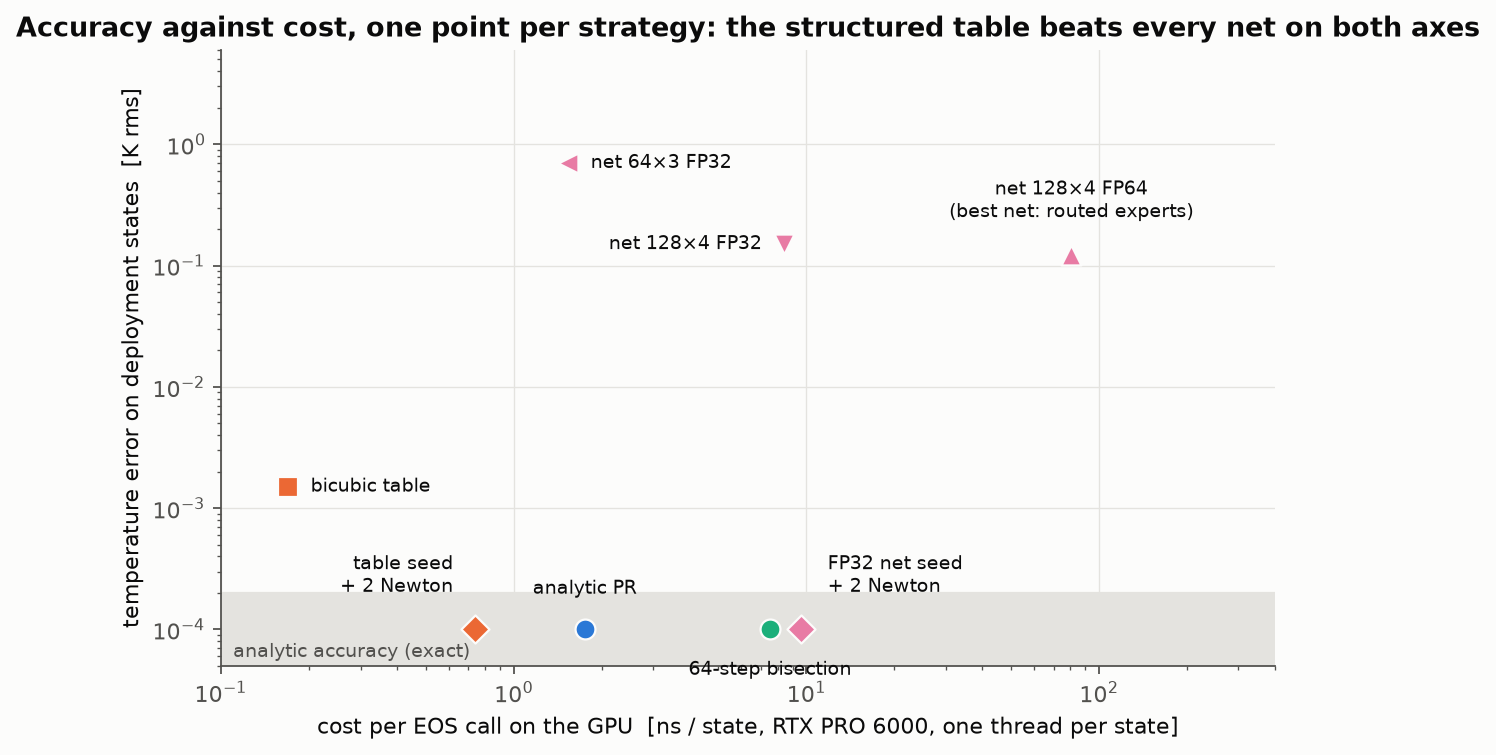
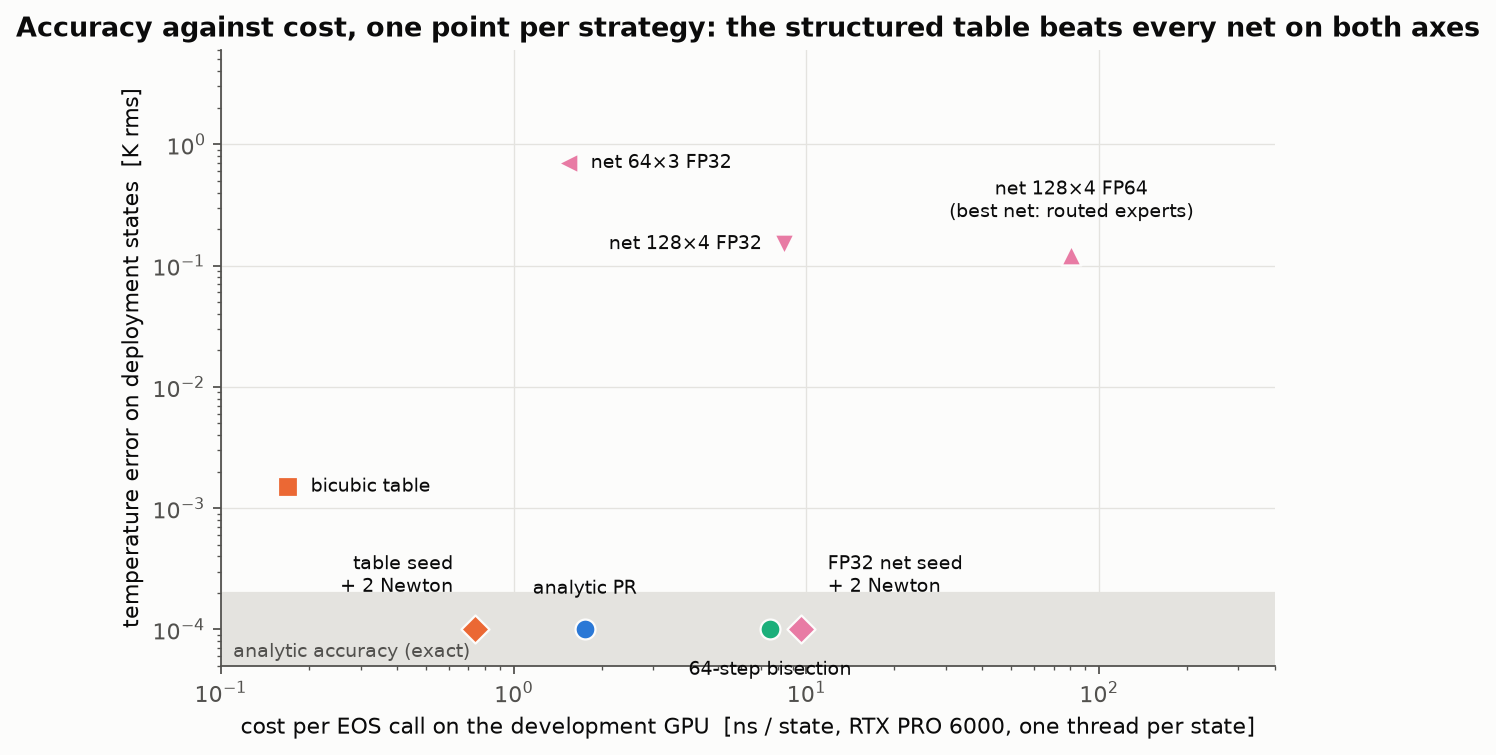
figures and outline: the two GPUs are the local development platform and the production platform

Changed region(s): [[0.1537, 0.9444, 0.8302, 0.9748]]

diff --git a/Exec/EOS_Surrogate/make_figures.py b/Exec/EOS_Surrogate/make_figures.py
@@ -148,14 +148,14 @@ def fig4_accuracy_cost():
         ax.annotate(name, (ns, err), xytext=off, textcoords='offset points', fontsize=8.5, ha=ha, va=va, color=INK)
     ax.axhspan(5e-5, 2e-4, color=GRID, zorder=0); ax.text(0.11, 6.5e-5, 'analytic accuracy (exact)', fontsize=8.5, color=INK2, va='center')
     ax.set_xscale('log'); ax.set_yscale('log'); ax.set_xlim(0.1, 400); ax.set_ylim(5e-5, 6)
-    ax.set_xlabel('cost per EOS call on the GPU  [ns / state, RTX PRO 6000, one thread per state]'); ax.set_ylabel('temperature error on deployment states  [K rms]')
+    ax.set_xlabel('cost per EOS call on the development GPU  [ns / state, RTX PRO 6000, one thread per state]'); ax.set_ylabel('temperature error on deployment states  [K rms]')
     ax.set_title('Accuracy against cost, one point per strategy: the structured table beats every net on both axes')
     ax.grid(True, axis='x')
     save(fig, 'fig4_accuracy_cost.png')
 
 # =============================================================================
 def fig5_cost_matrix():
-    plat = ['peart CPU\n8 EPYC ranks', 'Olivia CPU\n8 EPYC ranks', 'peart GPU\nRTX PRO 6000', 'Olivia GPU\nGH200 (H100)']
+    plat = ['development CPU\n8 EPYC ranks', 'production CPU\n8 EPYC ranks', 'development GPU\nRTX PRO 6000', 'production GPU\nGH200 (H100)']
     small = {'PR': [26.2, 24.5, 21.5, 5.1], 'PRTab': [20.6, 23.5, 18.9, 4.6], 'GERG': [342.0, 263.1, 1658.0, 397.0], 'GERGTab': [50.9, 40.1, 166.8, 43.8]}
     big = {'PR': [260.9, 247.2, 47.2, 10.1], 'PRTab': [220.0, 231.4, 22.6, 7.0]}
     fig, axes = plt.subplots(1, 2, figsize=(13, 4.6), gridspec_kw={'width_ratios': [2, 1.5]}, sharey=True)
@@ -185,15 +185,15 @@ def parse_profile(log):
     return tot, react
 
 def fig6_stage_split():
-    logs = {('peart CPU\n8 ranks', 'PR'): os.path.join(PB, 'runs/bench/L0big_200/PR_cpu/run.log'),
-            ('peart CPU\n8 ranks', 'PRTab'): os.path.join(PB, 'runs/bench/L0big_200/PRTab_cpu/run.log'),
-            ('Olivia CPU\n8 ranks', 'PR'): os.path.join(PB, 'runs/bench/olivia_cpu/Exec/CO2_PipeBreak/runs/bench/L0big_200/PR_cpu/run.log'),
-            ('Olivia CPU\n8 ranks', 'PRTab'): os.path.join(PB, 'runs/bench/olivia_cpu/Exec/CO2_PipeBreak/runs/bench/L0big_200/PRTab_cpu/run.log'),
-            ('RTX PRO 6000', 'PR'): os.path.join(PB, 'runs/bench/L0big_200/PR_gpu/run.log'),
-            ('RTX PRO 6000', 'PRTab'): os.path.join(PB, 'runs/bench/L0big_200/PRTab_gpu/run.log'),
-            ('GH200 (H100)', 'PR'): os.path.join(PB, 'runs/bench/olivia_gpu/Exec/CO2_PipeBreak/runs/bench/L0big_200/PR_gpu/run.log'),
-            ('GH200 (H100)', 'PRTab'): os.path.join(PB, 'runs/bench/olivia_gpu/Exec/CO2_PipeBreak/runs/bench/L0big_200/PRTab_gpu/run.log')}
-    plats = ['peart CPU\n8 ranks', 'Olivia CPU\n8 ranks', 'RTX PRO 6000', 'GH200 (H100)']
+    logs = {('development CPU\n8 EPYC ranks', 'PR'): os.path.join(PB, 'runs/bench/L0big_200/PR_cpu/run.log'),
+            ('development CPU\n8 EPYC ranks', 'PRTab'): os.path.join(PB, 'runs/bench/L0big_200/PRTab_cpu/run.log'),
+            ('production CPU\n8 EPYC ranks', 'PR'): os.path.join(PB, 'runs/bench/olivia_cpu/Exec/CO2_PipeBreak/runs/bench/L0big_200/PR_cpu/run.log'),
+            ('production CPU\n8 EPYC ranks', 'PRTab'): os.path.join(PB, 'runs/bench/olivia_cpu/Exec/CO2_PipeBreak/runs/bench/L0big_200/PRTab_cpu/run.log'),
+            ('development GPU\nRTX PRO 6000', 'PR'): os.path.join(PB, 'runs/bench/L0big_200/PR_gpu/run.log'),
+            ('development GPU\nRTX PRO 6000', 'PRTab'): os.path.join(PB, 'runs/bench/L0big_200/PRTab_gpu/run.log'),
+            ('production GPU\nGH200 (H100)', 'PR'): os.path.join(PB, 'runs/bench/olivia_gpu/Exec/CO2_PipeBreak/runs/bench/L0big_200/PR_gpu/run.log'),
+            ('production GPU\nGH200 (H100)', 'PRTab'): os.path.join(PB, 'runs/bench/olivia_gpu/Exec/CO2_PipeBreak/runs/bench/L0big_200/PRTab_gpu/run.log')}
+    plats = ['development CPU\n8 EPYC ranks', 'production CPU\n8 EPYC ranks', 'development GPU\nRTX PRO 6000', 'production GPU\nGH200 (H100)']
     fig, ax = plt.subplots(figsize=(11, 4.6)); w = 0.19; x = np.arange(len(plats))
     series = [('PR', 'rest', 'PR: hydro and everything else', 0.45), ('PR', 'react', 'PR: relaxation + mass transfer', 1.0),
               ('PRTab', 'rest', 'PRTab: hydro and everything else', 0.45), ('PRTab', 'react', 'PRTab: relaxation + mass transfer', 1.0)]

diff --git a/Exec/EOS_Surrogate/PRESENTATION_OUTLINE.md b/Exec/EOS_Surrogate/PRESENTATION_OUTLINE.md
@@ -2,7 +2,7 @@
 
 The long outline below is the reference; this is the cut to give. One message: **ML alone can be improved considerably by incorporating system knowledge — and that is what makes it the route to practical, multi-component problems, where tables stop scaling.** Second message: the platform decides how much a wrong kernel structure costs. Figures are in `figures/` (`make_figures.py`).
 
-1. **Title and the one-line claim.** Real-fluid two-phase CO₂ (pipe break, blowdown); the EOS is called a billion times per run; we tried tables, machine learning and the analytic forms on CPUs, a workstation GPU and a datacenter GPU.
+1. **Title and the one-line claim.** Real-fluid two-phase CO₂ (pipe break, blowdown); the EOS is called a billion times per run; we tried tables, machine learning and the analytic forms on CPUs, a local development GPU and a production GPU.
 
 2. **The EOS the solver needs is not the textbook one.** One picture of the branch-locked contract: $(\rho, e)$ → T on a named branch, metastable continuation, "no root" as an answer. Two numbers: the reaction operator makes 9 % of the calls and takes up to 60 % of GPU time. *No table.*
 
@@ -18,7 +18,7 @@ The long outline below is the reference; this is the cut to give. One message: *
 
 8. **Why pursue ML at all, if the table wins?** Because the table wins in two dimensions. A pure fluid is $(\rho, e)$; a practical CCS stream is CO₂ with N₂, O₂, CH₄, H₂S…, and every impurity adds a composition axis. PRTab is 3 MB at 256²; one composition axis at 64 points makes it 200 MB, two make it 12 GB — past the GPU's constant and cache memory and past the generation budget (every node is a flash calculation). A 50 k-parameter net is 400 KB in any dimension; what grows is the *data* it needs, and that is exactly what the harvester and the novelty ledger target. Point: tables are the right answer for the pure fluid; the ML route is the one that scales to practical problems — *if* the system knowledge that made it accurate in 2-D comes along.
 
-9. **Now the platform: the same four backends on four machines.** `fig5_cost_matrix.png`. The ranking never changes (table-seeded ≥ analytic PR ≫ analytic Helmholtz); the spread does: 13× on CPU, 78× on either GPU; the datacenter GPU gives every backend the same 4×, not a rescue for the FP64-heavy ones.
+9. **Now the platform: the same four backends on four machines.** `fig5_cost_matrix.png`. The ranking never changes (table-seeded ≥ analytic PR ≫ analytic Helmholtz); the spread does: 13× on CPU, 78× on either GPU; the production GPU gives every backend the same 4×, not a rescue for the FP64-heavy ones.
 
 10. **Why: the cost belongs to the kernel, not the EOS.** `fig6_stage_split.png`. The same table makes the hydro stage 2–4× faster and the relaxation stage 1.7× slower on both GPUs, nothing on CPUs — the lookup inlined into a register-capped Newton kernel; 0 guard fallbacks in 177 M calls (the divergence story we expected was wrong). Point: on a GPU, *where* the EOS is called decides more than what it computes.
 
@@ -83,7 +83,7 @@ Two threads, one thesis:
 
 **17. Why — measured, and a hypothesis refuted.** Guard census: **0 analytic fallbacks in 177 M calls**, 0 dome-patch routes, in either stage (the divergence hypothesis is dead). ptxas: `ps_apply_relaxation` 212 → **255 registers (cap)**, `ps_apply_sources` 213 → 250 with the table inlined. At 255 registers an SM holds 8 warps; the gathers' latency is not hidden. Message: a surrogate's device cost belongs to the kernel it is inlined into — the same bicubic is a win in ctoprim and a loss in X3.
 
-**18. The datacenter GPU (Olivia GH200 / H100) — and a second prediction refuted.** The full matrix (4 columns: peart CPU, Olivia zen5 CPU, RTX, GH200). The H100 gives **every backend the same ~4×** (GERG 4.2, PR 4.2, PRTab 4.1, GERGTab 3.8): GERG stays **78× slower than PR** on either GPU and still slower than 8 CPU cores; full-rate FP64 did not single out the Helmholtz backends. 60 % of GERG's GPU time is the relaxation kernel. Message: the Helmholtz GPU cost is the EOS-inside-Newton structure, not the FP64 rate.
+**18. The production GPU (Olivia GH200 / H100) — and a second prediction refuted.** The full matrix (4 columns: peart CPU, Olivia zen5 CPU, RTX, GH200). The H100 gives **every backend the same ~4×** (GERG 4.2, PR 4.2, PRTab 4.1, GERGTab 3.8): GERG stays **78× slower than PR** on either GPU and still slower than 8 CPU cores; full-rate FP64 did not single out the Helmholtz backends. 60 % of GERG's GPU time is the relaxation kernel. Message: the Helmholtz GPU cost is the EOS-inside-Newton structure, not the FP64 rate.
 
 **19. The PR family on the GH200.** 24–33× over 8 zen5 ranks at 524 k cells (10–15 Mcell/s); the table's GPU benefit shrinks as the card improves (2.1× RTX → 1.44× H100 → 1.07× zen5 CPU): the cheaper the analytic bracket, the less a gather-bound lookup gives back. The hydro-faster / relaxation-slower signature reproduces on the H100 (2.2× / 1.7×).
 
